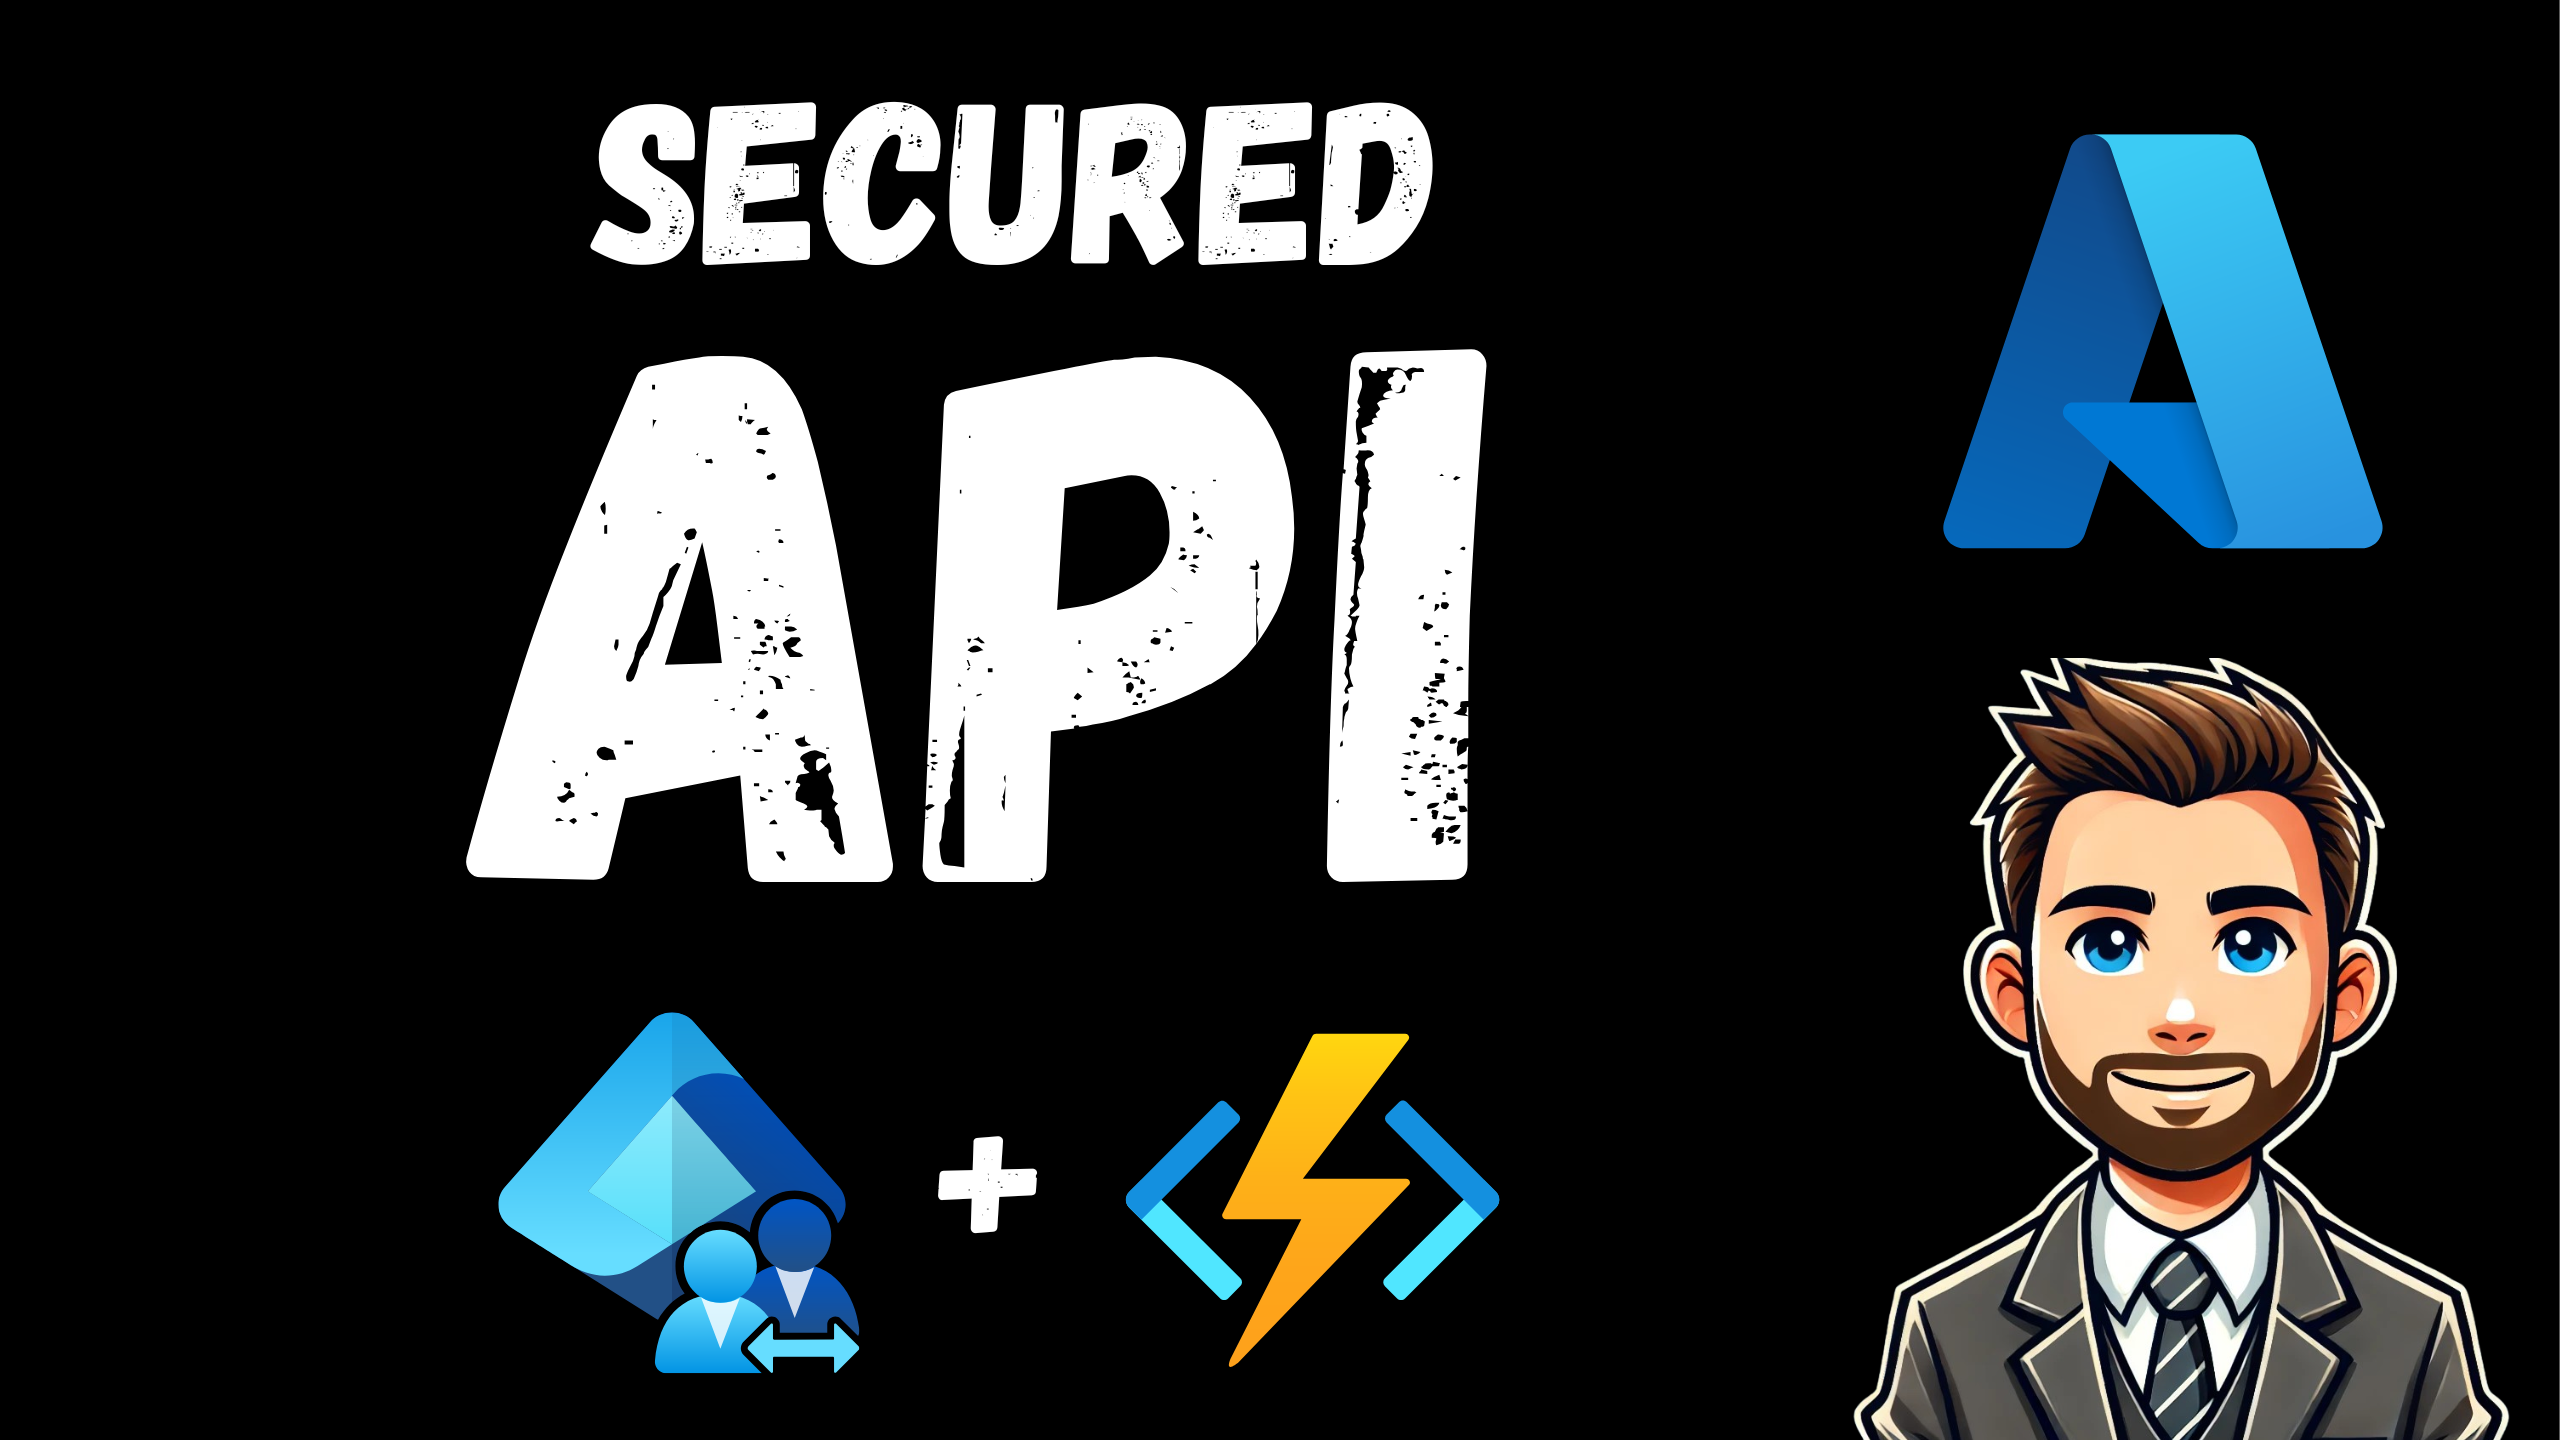
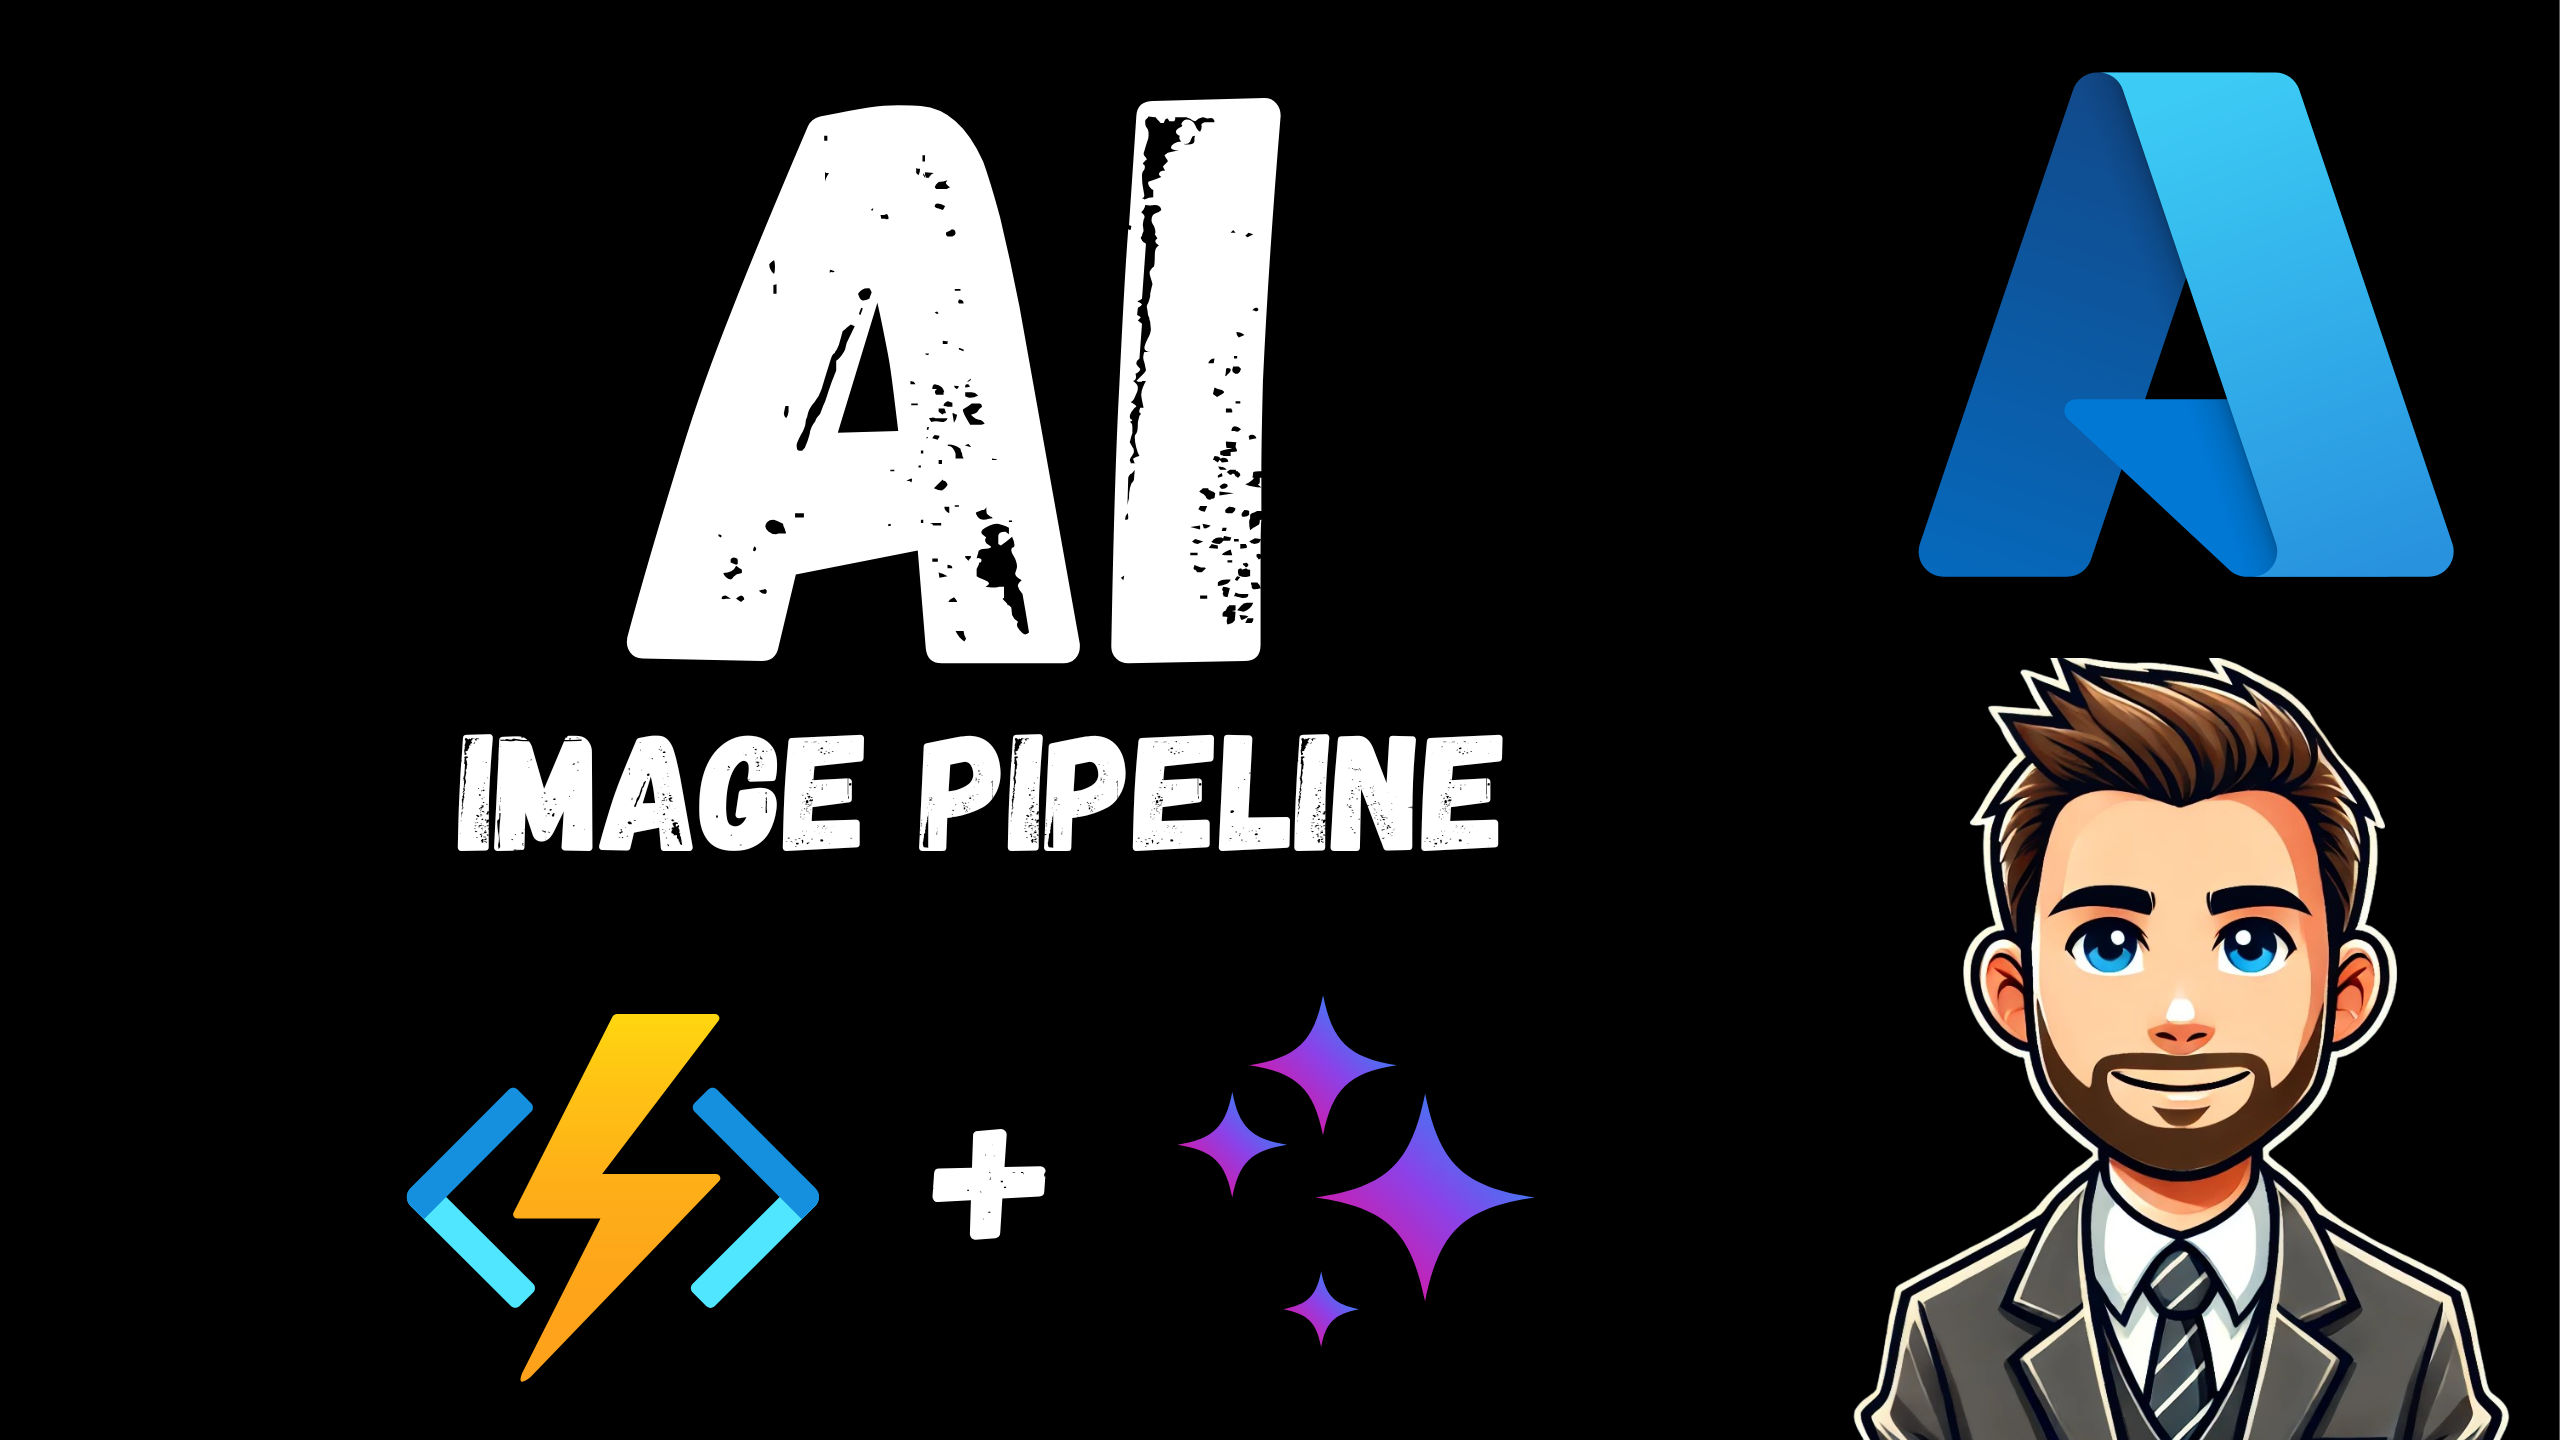
finalize video

diff --git a/00-resources/video-script.md b/00-resources/video-script.md
@@ -3,18 +3,18 @@
 ---
 
 ## Introduction
-
+ 
 [ Opening Sequence ]
 
-"Do you need a secure authenticated serverless API on Azure?"
+“Do you want to build an AI-powered image pipeline on Azure?”
 
-[ Architecture diagram — walk through it left to right: browser, storage account, Function App, Cosmos DB ]
+[ Show Diagram ]
 
-"In this project we build a serverless notes API using an Azure Function App and Cosmos DB. The API is fully secured with an Entra ID Tenant.
+"In this project, we build a fully serverless pipeline that turns photos into cartoons using Azure and Open AI."
 
-[ Show Build Roll ]
+[ Build B Roll ]
 
-"Follow along and in minutes you'll have a working authenticated API running in Azure."
+Follow along and in minutes you’ll have a fully working AI pipeline running on Azure.
 
 ---
 
@@ -24,25 +24,49 @@
 
 "Let's walk through the architecture before we build."
 
-[ Highlight browser and storage account ]
+[ Diagram then Congito ]
 
-"The user opens a static web app from a storage account and signs in with Entra ID.
+"First, the user signs into the web application using an Entra ID external tenant.
 
-[ Entra ID then JWT ]
+[ Choose File then Diagam ]
 
-The Entra ID login returns a JWT and that token is sent with every API request.
+"When the user selects “Choose File”, the image is uploaded to a storage account."
 
-[ Function App ]
+[  Cartoonify ]
 
-"The function app itself validates the bearer token before the request is allowed."
+When the user selects “Cartoonify”, the API does two things:
 
-[ Show CosmosDB ]
+[ Highlight Cosmos DB]
 
-"The funcion app stores the notes in the Cosmos DB table."
+It creates a job record in Cosmos DB
 
-[ Owner Field ]
+[ Highlight SQS queue ]
 
-The owner field is scoped to the authenticated user.
+Then it sends a message to the image processing service bus.
+
+[ Highlight Lambda ]
+
+"The service bus triggers the worker function."
+
+[ Show bedrock ]
+
+"The worker function calls Open AI to generate the cartoon."
+
+[ Show Open AI page]
+
+"You'll need to provide an Open AI API key for the image generation processing".
+
+[ Show S3 Media Bucket]
+
+"The generated image is written back to the storage account."
+
+[ Final Dynamo DB State]
+
+When processing completes, the job status is updated in Cosmos DB.
+
+[ Show final result ]
+
+The web application refreshes and displays the generated image.
 
 ---
 
@@ -68,54 +92,61 @@ The owner field is scoped to the authenticated user.
 
 "API URL. Website URL. Done."
 
+Now re-run the check env script after setting the environment variables.
+
+Note the warning about the Open AI API key - This is necessary for the image generation and can be added later.
+
+If you need help setting up Azure and terraform check out our Azure Setup video.
+
+Once that's done run the apply script to start the build.
+
 ---
 
 ## Build Results
 
-[ Azure Portal — Resource Groups ]
+Three storage accounts are created for this project.
 
-"Two resource groups — one for the Function App and Cosmos DB, one for the web frontend."
+The first account hosts the public web application.
 
-[ Azure Portal — Function App, Flex Consumption plan visible ]
+The second account stores the uploaded source images and generated cartoons.
 
-"Function App on FC1. Python 3.11. Cosmos DB connection settings in app settings."
+The third account stores the azure functions.
 
-[ Azure Portal — Cosmos DB container ]
+Identity and access is handled by an Entra ID External tenant.
 
-"Cosmos DB with a notes container. Partition key is owner."
+The serverless API is implemented with an Azure Function App.
 
-[ Azure Portal — storage account, $web container ]
+The image generation pipeline is drived by an azure service bus queue.
 
-"Static website enabled. index.html in the $web container, ready to serve."
+Cosmos DB stores the status of each image generation job.
 
-[ Browser — Notes Demo loads ]
+When a message is processed, the worker function calls Open AI to generate the cartoon image.
 
-"Open the URL. The app is live."
+An API key must be specified to generate images.
+
+The generated image is written back to the media storage account.
+
+The Cosmos DB job record is updated to complete.
+
+When the application refreshes, the generated results are displayed.
+
 
 ---
 
 ## Demo
 
-Navigate to the URL to launch the notes application.
+Navigate to the web application URL.
 
-Sign in with an existing account or create a new one.
+Sign in using the external Entra ID tenant.
 
-We're now authenticated into the app.
+Select choose file and upload a test image.
 
-Open the browser debugger so we can watch the API calls.
+Select the Pixar 3D style, then click Cartoonify to start the image generation pipeline.
 
-Create a new note.
+The application displays the image generation life cycle in the left panel.
 
-The post call is made with the JWT as a bearer token.
+Now try some different styles.
 
-Now update the node.
-
-A put call is made with the bearer token.
-
-Delete the note.
-
-A delete call is made with the bearer token.
-
-In this demo we've exercised every API endpoint, all secured with JWT bearer tokens.
+The application displays a gallery of your previous results.
 
 ---

diff --git a/00-resources/VIDEO.md b/00-resources/VIDEO.md
@@ -1,34 +1,39 @@
-#Azure #Serverless #AzureFunctions #CosmosDB #Terraform #Python #CRUD
+#Azure #Serverless #AzureFunctions #ServiceBus #CosmosDB #EntraID #Terraform #Python #OpenAI #GenerativeAI
 
-*Build a Serverless CRUD API on Azure (Functions + Cosmos DB)*
+*Build an AI Image Pipeline on Azure (Functions + Service Bus + OpenAI)*
 
-Deploy a fully serverless notes API on Azure using Terraform, Azure Functions, and Cosmos DB. The backend runs on a Flex Consumption (FC1) Function App with Python, backed by a Cosmos DB SQL API database, with a static web frontend served directly from Blob Storage.
+Turn any photo into a cartoon using a fully serverless, event-driven pipeline on Azure — provisioned with Terraform and deployed with a single script. Users sign in with Entra External ID, upload a photo, pick a cartoon style, and a queue-driven worker calls the OpenAI API to generate a stylized result. Originals and cartoons are stored privately in Blob Storage and served through short-lived SAS URLs.
 
-In this project we build a clean REST API with full Create, Read, Update, and Delete support — wired to a real database, deployed with a single script, and tested through a browser-based UI with no server to manage.
+In this project we build an asynchronous AI image-processing pipeline from scratch — the browser uploads directly to Blob Storage, Service Bus decouples the slow OpenAI inference call from the API response, and an Azure Function running Pillow normalizes the photo before sending it to gpt-image-1. The whole thing runs without a single VM.
 
 WHAT YOU'LL LEARN
-• Deploying Azure Functions on the Flex Consumption (FC1) plan with Terraform
-• Packaging and zip-deploying Python function code with remote build
-• Provisioning Cosmos DB (SQL API) and wiring credentials into the Function App
-• Hosting a static web frontend on Azure Blob Storage ($web container)
-• Injecting runtime config into HTML templates using envsubst
+• Calling OpenAI gpt-image-1 images.edit from an Azure Function using an API key
+• Using Service Bus to decouple a slow AI inference call from a synchronous API response
+• Validating Entra External ID JWTs in Python code against the CIAM JWKS endpoint
+• Implementing PKCE OAuth2 Authorization Code flow with Entra External ID in a static SPA
+• Generating Blob SAS tokens for direct browser PUT upload and time-limited download
+• Enforcing per-user daily quotas with a Cosmos DB range query — no secondary index required
+• Associating an Entra app registration with a sign-up/sign-in user flow via the Graph API
+• Provisioning Azure Functions FC1 Flex Consumption and RBAC role assignments with Terraform
 
 INFRASTRUCTURE DEPLOYED
-• Azure Function App (Flex Consumption / FC1, Python 3.11)
-• Storage account for function code zip deployment
-• Cosmos DB account with SQL API database and container
-• Storage account hosting a static web frontend ($web container)
-• App settings passing Cosmos DB endpoint and key to the Function App
+• Microsoft Entra External ID app registration (SPA platform, PKCE, no client secret)
+• Azure Functions FC1 Flex Consumption (Python 3.11, 2048 MB): upload-url, generate, result, history, delete + Service Bus worker trigger
+• Service Bus Standard namespace + cartoonify-jobs queue (3 min lock duration, batch size 1)
+• Cosmos DB SQL API account, database cartoonify, container jobs (PK=/owner, per-item 7-day TTL)
+• Blob Storage media account (originals + cartoons containers, 7-day lifecycle policy)
+• Blob Storage web account (static SPA: index.html, callback.html, config.json, favicon.ico)
+• RBAC role assignments: Service Bus Sender + Receiver, custom Cosmos DB SQL role scoped to the Function App managed identity
 
 GitHub
-https://github.com/mamonaco1973/azure-crud-example
+https://github.com/mamonaco1973/azure-cartoonify
 
 README
-https://github.com/mamonaco1973/azure-crud-example/blob/main/README.md
+https://github.com/mamonaco1973/azure-cartoonify/blob/main/README.md
 
 TIMESTAMPS
 00:00 Introduction
-00:22 Architecture
-00:51 Build the Code
-01:07 Build Results
-01:39 Demo
+00:14 Architecture
+00:55 Build the Code
+02:54 Build Results
+03:41 Demo
